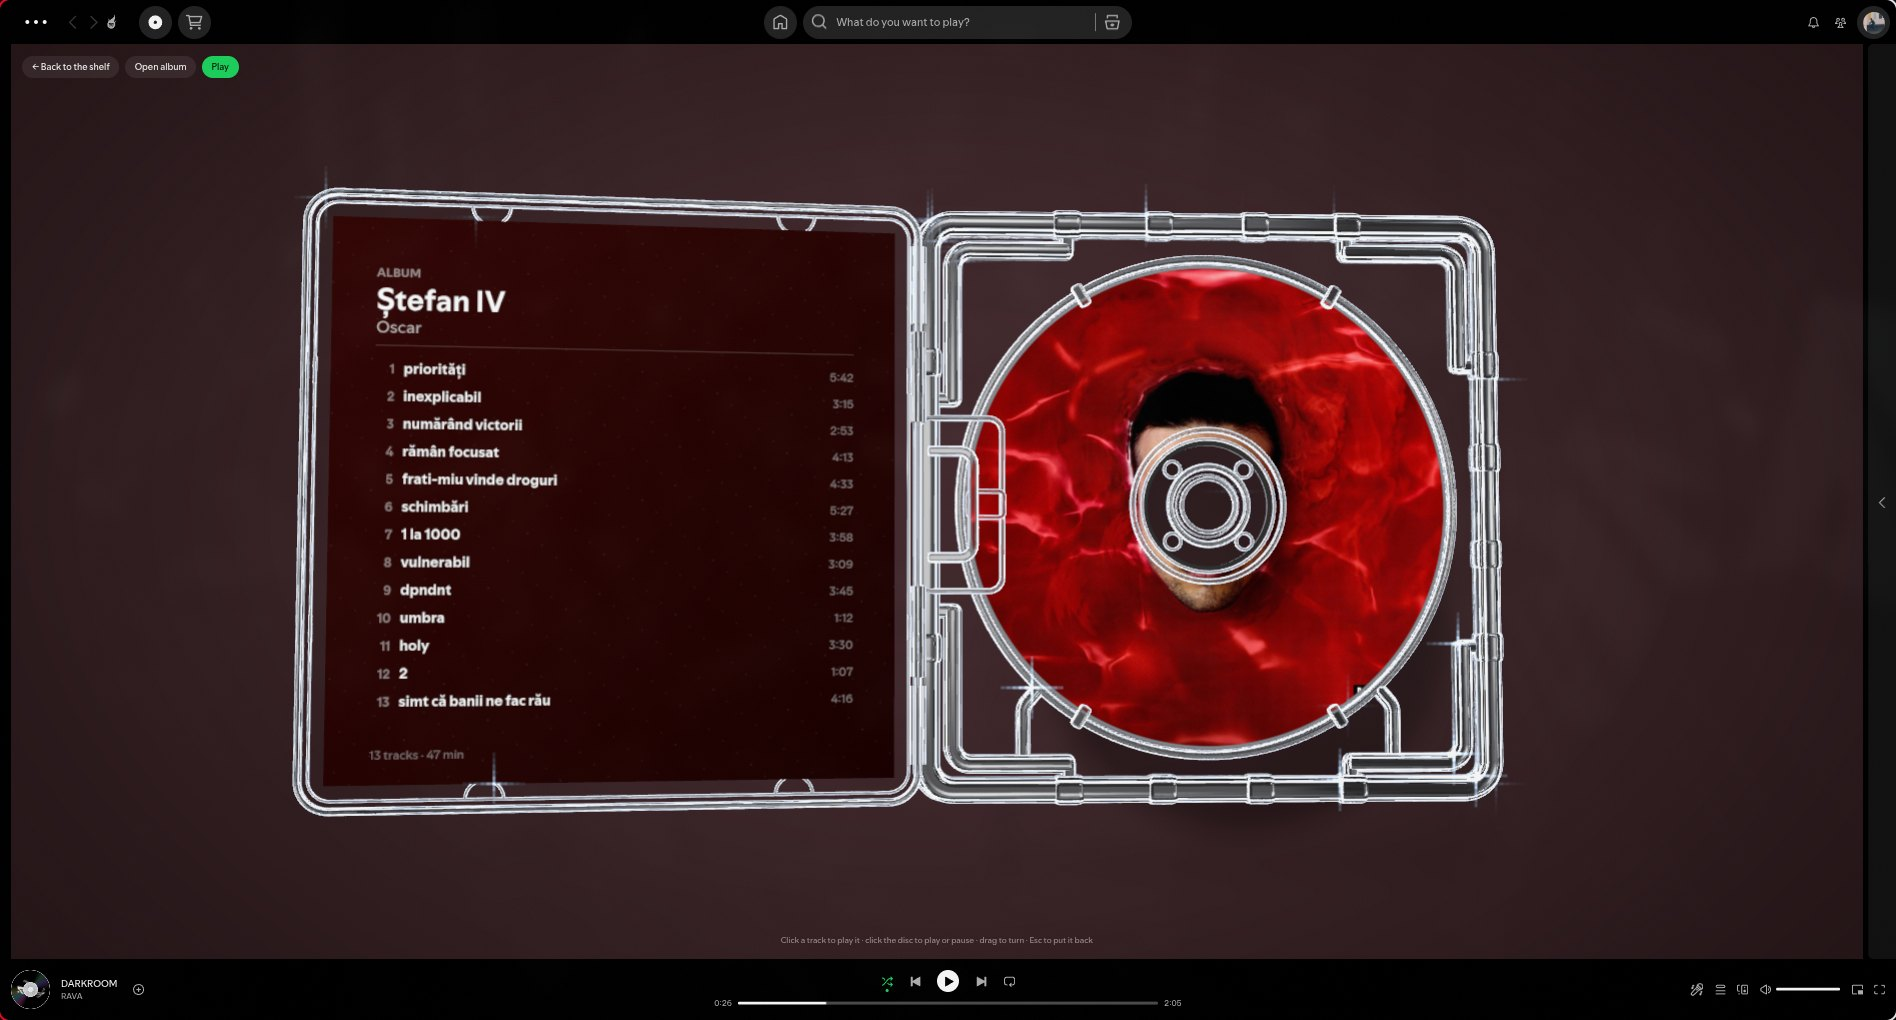
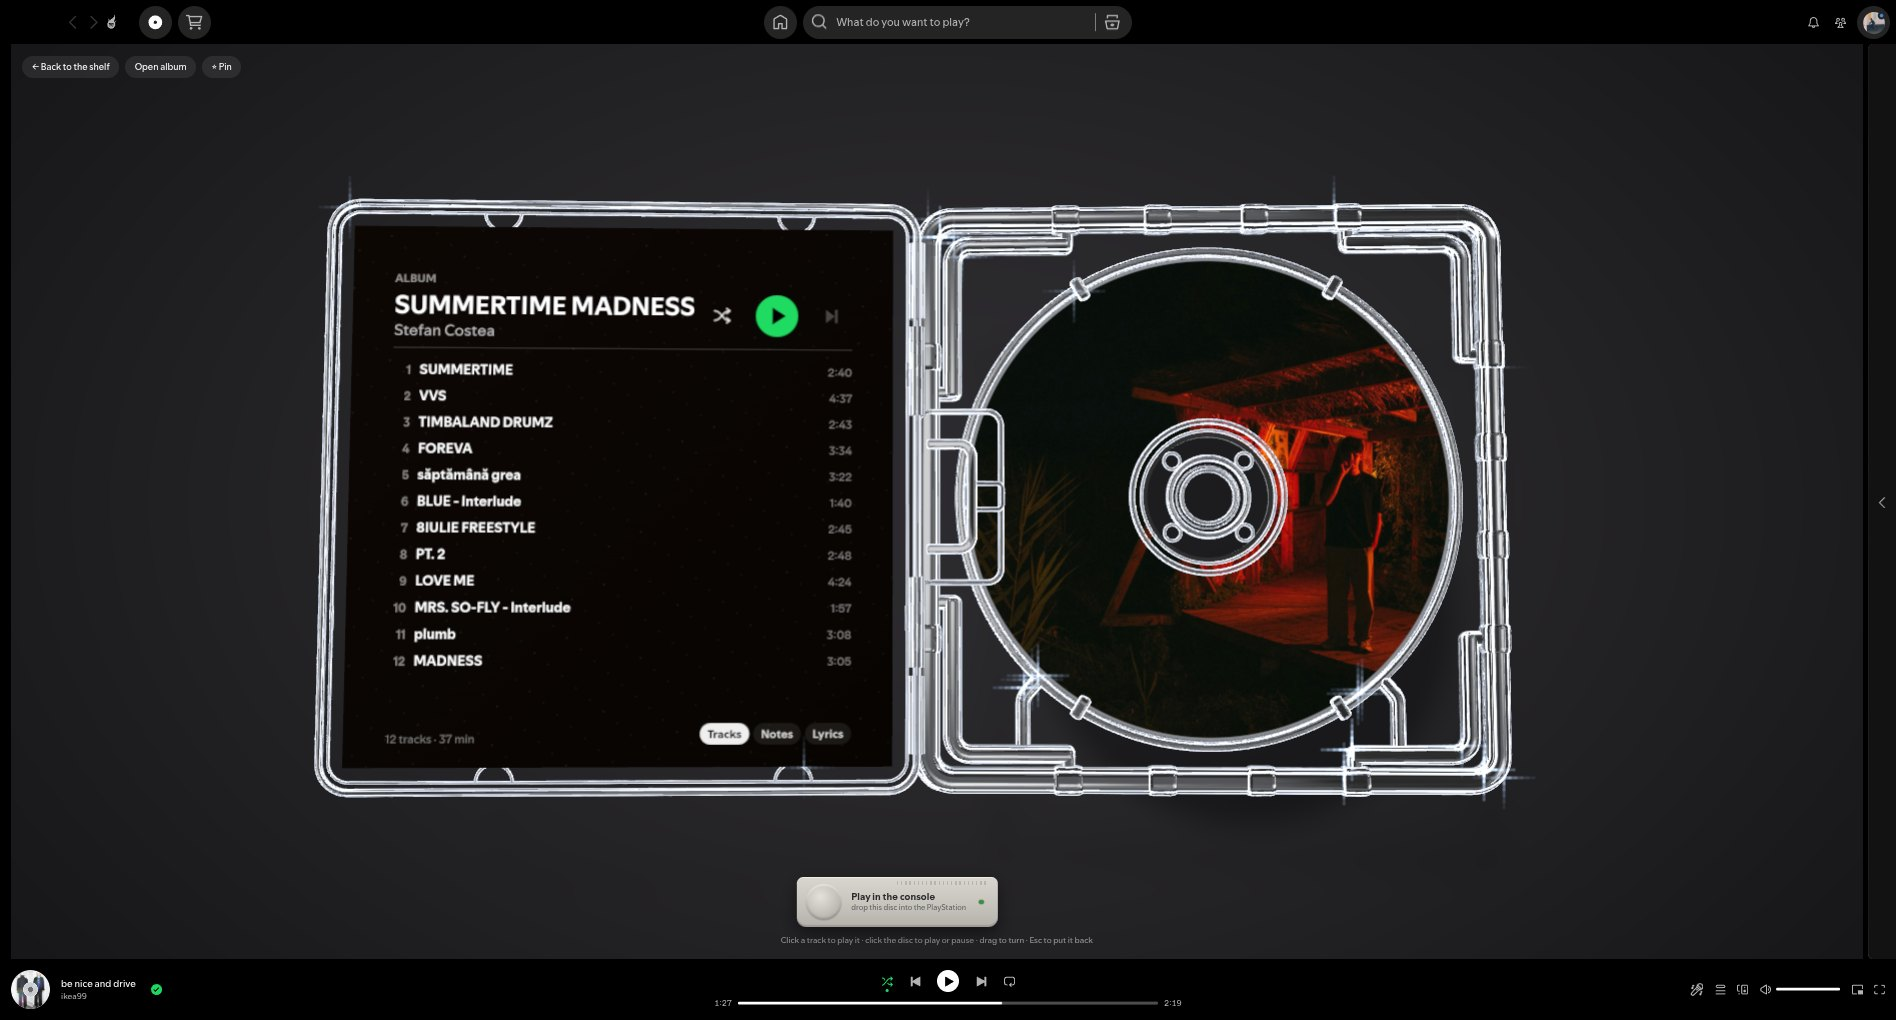
README: screenshots of the current version
Shelf (dividers, CD-R playlists, slim singles), open case (booklet
controls, console button) and the booklet's Notes page, captured at
1896x1020 from the live app; the Notes page replaces the closed-case shot.
The TV corner shot stays: it hasn't changed, and it shows the whiteboard
lyrics.

diff --git a/README.md b/README.md
@@ -13,10 +13,10 @@ video and a whiteboard writes out the lyrics in marker, in time with the music.
 
 | | |
 | --- | --- |
-| ![The shelf: a row of CD jewel cases with their spines out on walnut shelves](docs/screenshots/shelf.jpg) | ![An open jewel case: the tracklist printed in the booklet, and the disc in the tray](docs/screenshots/open-case.jpg) |
-| The shelf is your library | Click a disc to open it: tracklist, notes, lyrics |
-| ![A closed jewel case seen up close, its cover behind the glass](docs/screenshots/closed-case.jpg) | |
-| Every case is real refracting glass | |
+| ![The shelf: jewel cases spine-out on walnut shelves, sorted by year behind divider cards, playlists as handwritten CD-Rs](docs/screenshots/shelf.jpg) | ![An open jewel case: the tracklist printed in the booklet with shuffle, play and skip beside the title, and the disc in the tray](docs/screenshots/open-case.jpg) |
+| Your library on the shelf, with record-store dividers and CD-R playlists | Open a disc: play, shuffle or skip from the booklet, or drop it in the PlayStation |
+| ![The booklet's Notes page: release date, label, length and copyright lines](docs/screenshots/notes.jpg) | |
+| Turn the booklet's pages: tracks, liner notes, lyrics | |
 
 ## Install
 
